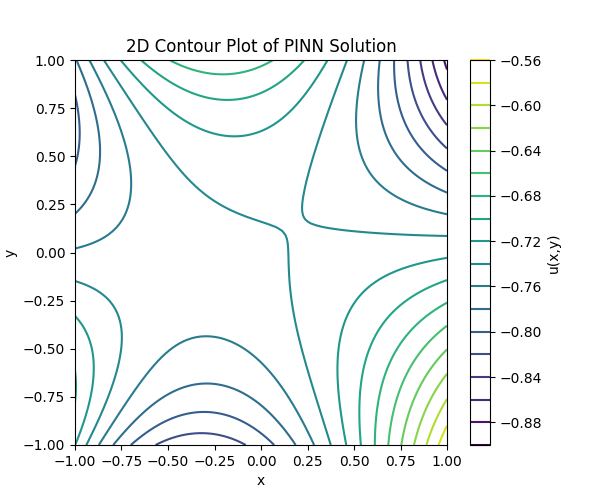
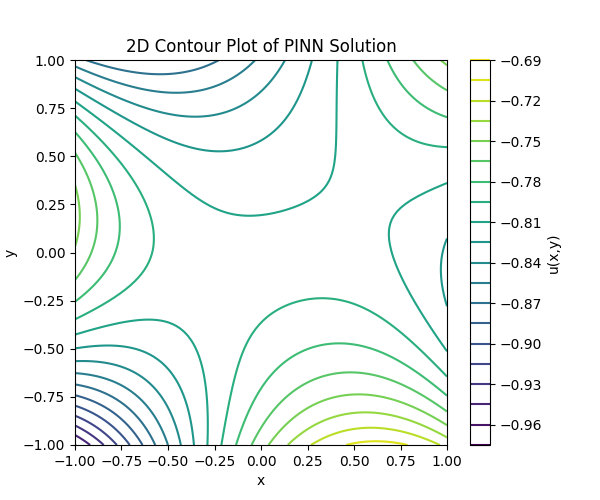
.

diff --git a/hw1-1.py b/hw1-1.py
@@ -15,6 +15,8 @@ class PINN(nn.Module):
             nn.Linear(2, 50), nn.Tanh(),
             nn.Linear(50, 50), nn.Tanh(),
             nn.Linear(50, 50), nn.Tanh(),
+            nn.Linear(50, 50), nn.Tanh(),
+            nn.Linear(50, 50), nn.Tanh(),
             nn.Linear(50, 1)
         )
 
@@ -36,36 +38,47 @@ def pde_residual(model, x, y):
     return u_xx + u_yy
 
 # Generate training data
-def generate_data(n_samples=5000):
-    r = np.random.uniform(0.1, 1.0, n_samples)
+def generate_data(n_samples=4000, n_boundary=1000):
+    # Interior points
+    r = np.random.uniform(0, 1.0, n_samples)
     theta = np.random.uniform(0, 2 * np.pi, n_samples)
     x = r * np.cos(theta)
     y = r * np.sin(theta)
     u_true = np.log(np.sqrt(x**2 + y**2))
-    return torch.tensor(x, dtype=torch.float32), torch.tensor(y, dtype=torch.float32), torch.tensor(u_true, dtype=torch.float32)
+
+    # Boundary points (r=1)
+    theta_b = np.random.uniform(0, 2 * np.pi, n_boundary)
+    x_b = np.cos(theta_b)
+    y_b = np.sin(theta_b)
+    u_b_true = np.zeros(n_boundary)  # Dirichlet condition u=0 on boundary
+
+    # Combine
+    x_all = np.concatenate([x, x_b])
+    y_all = np.concatenate([y, y_b])
+    u_all = np.concatenate([u_true, u_b_true])
+
+    return (torch.tensor(x_all, dtype=torch.float32),
+            torch.tensor(y_all, dtype=torch.float32),
+            torch.tensor(u_all, dtype=torch.float32))
 
 # Training the PINN
 def train_pinn(model, n_epochs=10000):
-    optimizer = torch.optim.Adam(model.parameters(), lr=0.005)
+    optimizer = torch.optim.LBFGS(model.parameters(), lr=1.0, max_iter=1000)
     x, y, u_true = generate_data()
     
-    for epoch in range(n_epochs):
+    def closure():
         optimizer.zero_grad()
-        
-        # PDE loss
-        pde_loss = torch.mean(pde_residual(model, x, y)**2)
-        
-        # Boundary/data loss
+        pde_loss = torch.mean(pde_residual(model, x[:4000], y[:4000])**2)  # Interior only
         u_pred = model(x, y).squeeze()
-        data_loss = torch.mean((u_pred - u_true)**2)
-        
-        # Total loss
-        loss = 10*pde_loss + data_loss
+        data_loss = torch.mean((u_pred - u_true)**2)  # All points
+        loss = pde_loss + 0.1 * data_loss
         loss.backward()
-        optimizer.step()
-        
+        return loss
+    
+    for epoch in range(n_epochs):
+        optimizer.step(closure)
         if (epoch + 1) % 1000 == 0:
-            print(f'Epoch {epoch + 1}, Loss: {loss.item():.6f}')
+            print(f'Epoch {epoch + 1}, Loss: {closure().item():.6f}')
 
 # Plotting functions
 def plot_results(model):
